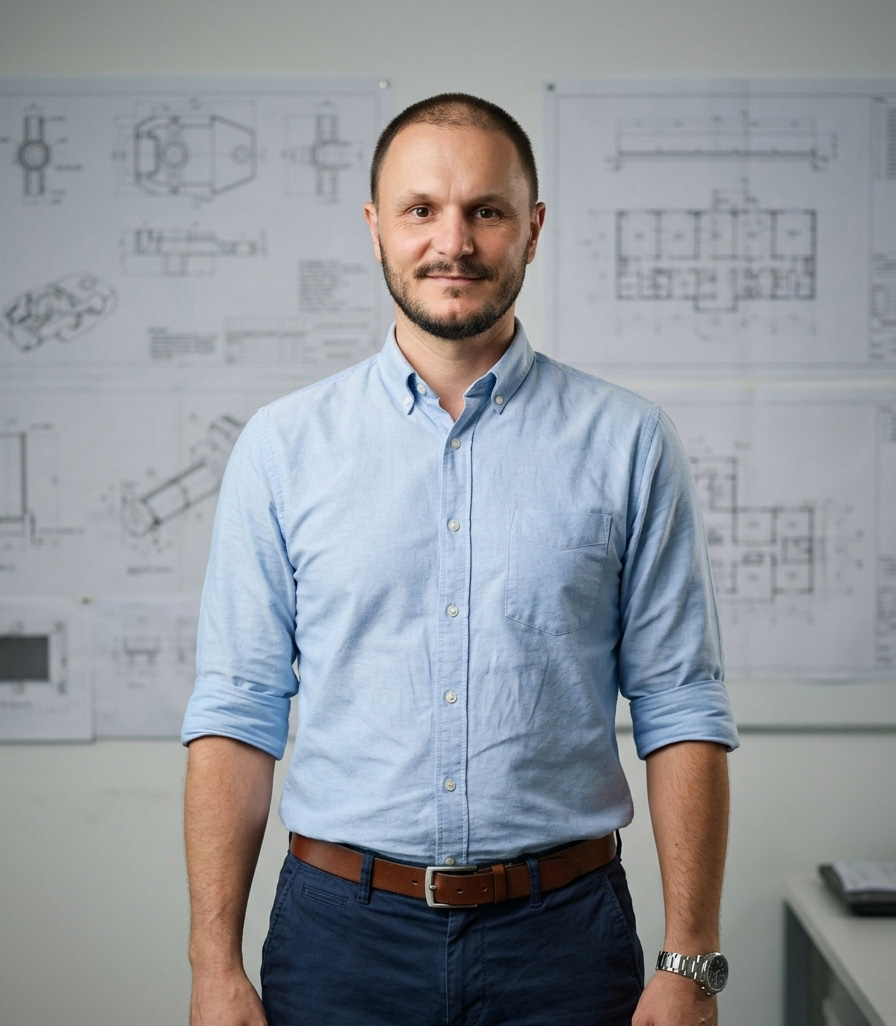
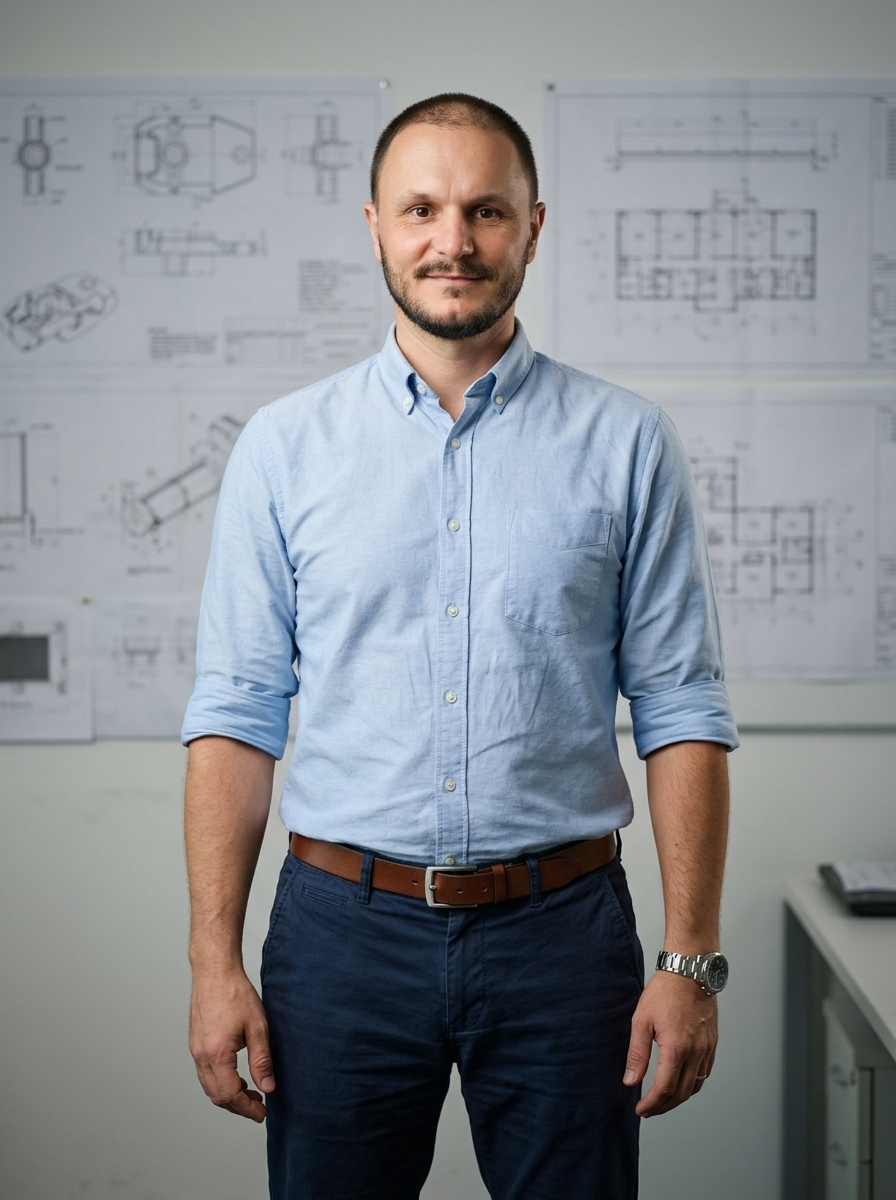
Publish portfolio site on GitHub Pages

diff --git a/js/main.js b/js/main.js
@@ -25,7 +25,7 @@
         { name: 'Сургутский ЗСК', place: 'Сургут, ХМАО', coordinates: [73.4, 61.25], climate: 'cold' },
         { name: 'Северсталь', place: 'Череповец, Вологодская область', coordinates: [37.9, 59.13], climate: 'cold' },
         { name: 'Озерный ГОК', place: 'Еравнинский район, Бурятия', coordinates: [111.5, 51.75], climate: 'cold' },
-        { name: 'Ленинградский вокзал', place: 'Москва', coordinates: [37.62, 55.76] }
+        { name: 'Москва', place: 'Москва', coordinates: [37.62, 55.76] }
     ];
 
     async function renderRussiaMap() {
@@ -41,9 +41,27 @@
             if (!russiaGeometry) return;
 
             const russia = topojson.feature(world, russiaGeometry);
+            const kazakhstanGeometry = world.objects.countries.geometries.find(country => String(country.id) === '398');
+            const kazakhstan = kazakhstanGeometry
+                ? topojson.feature(world, kazakhstanGeometry)
+                : null;
 
-            const projection = d3.geoMercator().center([100, 60]).scale(260).translate([400, 190]);
+            const projection = d3.geoMercator()
+                .center([100, 60])
+                .scale(220)
+                .translate([400, 265]);
             const path = d3.geoPath(projection);
+            const graticule = d3.geoGraticule().step([30, 15]);
+            const gridLayer = document.createElementNS('http://www.w3.org/2000/svg', 'g');
+            gridLayer.setAttribute('class', 'map-graticule');
+            graticule.lines().forEach(line => {
+                const gridLine = document.createElementNS('http://www.w3.org/2000/svg', 'path');
+                gridLine.setAttribute('class', 'map-grid-line');
+                gridLine.setAttribute('d', path(line));
+                gridLayer.appendChild(gridLine);
+            });
+            mapSvg.appendChild(gridLayer);
+
             const countryPath = document.createElementNS('http://www.w3.org/2000/svg', 'path');
             countryPath.setAttribute('class', 'country-shape');
             countryPath.setAttribute('d', path(russia));
@@ -57,16 +75,14 @@
             russiaLabel.textContent = 'РОССИЙСКАЯ ФЕДЕРАЦИЯ';
             mapSvg.appendChild(russiaLabel);
 
-            const kazakhstanGeometry = world.objects.countries.geometries.find(country => String(country.id) === '398');
-            if (kazakhstanGeometry) {
+            if (kazakhstan) {
                 const kazakhstanPath = document.createElementNS('http://www.w3.org/2000/svg', 'path');
                 kazakhstanPath.setAttribute('class', 'country-shape country-kazakhstan');
-                kazakhstanPath.setAttribute('d', path(topojson.feature(world, kazakhstanGeometry)));
+                kazakhstanPath.setAttribute('d', path(kazakhstan));
                 mapSvg.appendChild(kazakhstanPath);
 
                 const kazakhstanLabel = document.createElementNS('http://www.w3.org/2000/svg', 'text');
                 kazakhstanLabel.setAttribute('class', 'country-label country-label-kazakhstan');
-                const kazakhstan = topojson.feature(world, kazakhstanGeometry);
                 const [kazakhstanLabelX, kazakhstanLabelY] = path.centroid(kazakhstan);
                 kazakhstanLabel.setAttribute('x', kazakhstanLabelX);
                 kazakhstanLabel.setAttribute('y', kazakhstanLabelY);

diff --git a/css/style.css b/css/style.css
@@ -673,7 +673,8 @@ img {
 
 .photo-placeholder {
   width: 280px;
-  height: 280px;
+  aspect-ratio: 896 / 1200;
+  height: auto;
   padding: 0;
   background: var(--gradient-primary);
   border: 1px solid var(--border-color);
@@ -720,7 +721,7 @@ img {
   display: block;
   width: 100%;
   height: 100%;
-  object-fit: cover;
+  object-fit: contain;
   object-position: center;
 }
 
@@ -1639,8 +1640,7 @@ img {
   max-width: 390px;
 }
 
-.geo-kicker,
-.map-coordinates {
+.geo-kicker {
   color: var(--copper-soft);
   font: 600 0.72rem/1.4 'IBM Plex Mono', monospace;
   letter-spacing: 0.12em;
@@ -1694,28 +1694,6 @@ img {
   box-shadow: var(--shadow-md);
 }
 
-.map-stage::before,
-.map-stage::after {
-  content: '';
-  position: absolute;
-  pointer-events: none;
-  background: var(--line);
-}
-
-.map-stage::before {
-  top: 50%;
-  left: 5%;
-  right: 5%;
-  height: 1px;
-}
-
-.map-stage::after {
-  top: 5%;
-  bottom: 5%;
-  left: 50%;
-  width: 1px;
-}
-
 .russia-map {
   position: absolute;
   inset: 10px 16px 28px;
@@ -1743,6 +1721,10 @@ img {
   stroke: rgba(121, 175, 196, 0.27);
   stroke-width: 1;
   stroke-dasharray: 5 7;
+}
+
+.map-graticule {
+  pointer-events: none;
 }
 
 .country-label {
@@ -1874,14 +1856,6 @@ img {
 .marker-udokan   { left: 67%; top: 55%; }
 .marker-nizhny   { left: 29%; top: 55%; }
 
-.map-coordinates {
-  position: absolute;
-  right: 14px;
-  bottom: 12px;
-  color: var(--steel-soft);
-  font-size: 0.64rem;
-}
-
 /* --------------------------------------------------------------------------
    21. Анимации появления при скролле
    -------------------------------------------------------------------------- */
@@ -2003,7 +1977,7 @@ img {
 
   .photo-placeholder {
     width: 200px;
-    height: 200px;
+    height: auto;
   }
 
   .stats-grid {

diff --git a/index.html b/index.html
@@ -159,7 +159,6 @@
                 <div class="map-stage" aria-label="Стилизованная карта России с объектами">
                     <svg class="russia-map" viewBox="0 0 800 380" role="img" aria-label="Карта России с объектами"></svg>
                     <div class="map-markers" aria-label="Объекты на карте"></div>
-                    <div class="map-coordinates mono">55°45'N / 37°37'E</div>
                 </div>
             </div>
         </div>

diff --git a/css/theme-fix.css b/css/theme-fix.css
@@ -209,14 +209,6 @@ body {
     padding: 0;
 }
 
-.photo-placeholder img {
-    display: block;
-    width: 100%;
-    height: 100%;
-    object-fit: cover;
-    object-position: center;
-}
-
 @media (max-width: 980px) {
     .geography-layout {
         grid-template-columns: 1fr;
